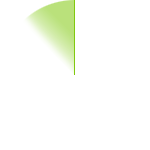
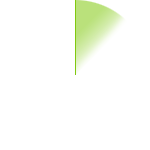
radar

Changed region(s): [[0.1867, 0.0, 0.8267, 0.5067]]

diff --git a/html5/game.js b/html5/game.js
@@ -527,11 +527,12 @@ function minimapRender(performanceLevel)
 			radarAngle = 0;
 		}
 		radarAngle += 0.005;
-		drawImageRotated(radarlineImage,6,canvas.height-8-radarlineImage.height,radarlineImage.width,radarlineImage.height,radarAngle*6.28318531);
+		drawImageRotated(radarlineImage, 8, demHeight - 158, 150, 150, (orbit.angle/100) * 6.28318531);
+		//drawImageRotated(radarlineImage,6,canvas.height-8-radarlineImage.height,radarlineImage.width,radarlineImage.height,radarAngle*6.28318531);
 	}
 	
 	//Draw asteroid in orbit
-	ctx.drawImage(asteroidMiniImage, miniassx, miniassy, 10, 10);
+	//ctx.drawImage(asteroidMiniImage, miniassx, miniassy, 10, 10);
 }
 	
 function gameDrawPlanet(i){
